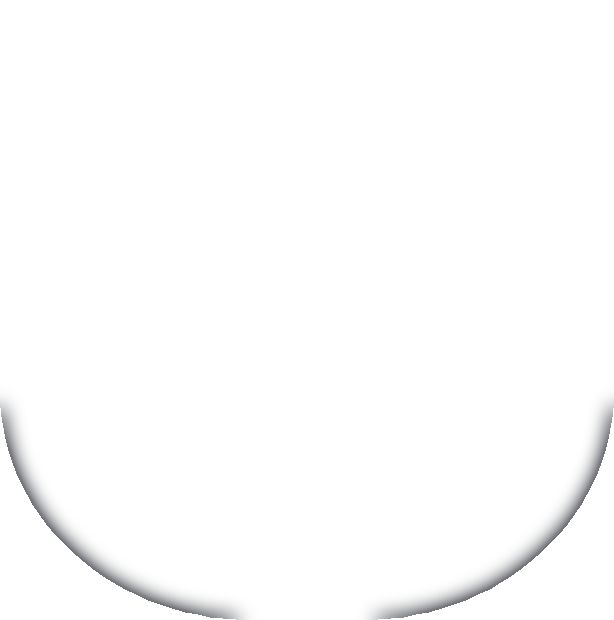
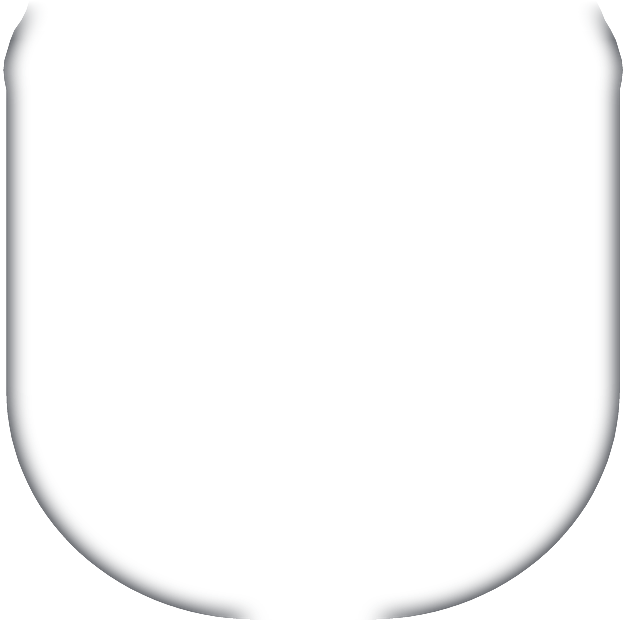
Trim the shade's top corners to follow the curved frame
Claude-Session: https://claude.ai/code/session_01CthgBTvFk91m7x8aUzyipC

diff --git a/index.html b/index.html
@@ -78,7 +78,7 @@ a{color:inherit}
 .window img{width:100%;height:100%;object-fit:contain;filter:drop-shadow(0 40px 70px rgba(0,0,0,.55))}
 .window canvas{position:absolute;inset:0;width:100%;height:100%;pointer-events:none}
 /* pull-down window shade, built from the shade in the photo and cut to the window recess (image box is 1024 units) */
-.shade-clip{position:absolute;left:20.02%;top:26.37%;width:59.96%;height:60.55%;overflow:hidden;pointer-events:none;
+.shade-clip{position:absolute;left:19.434%;top:26.37%;width:61.133%;height:60.55%;overflow:hidden;pointer-events:none;
   -webkit-mask:url(assets/shade-mask.png) 0 0/100% 100% no-repeat;mask:url(assets/shade-mask.png) 0 0/100% 100% no-repeat}
 .shade-panel{position:absolute;inset:0;background:url(assets/shade-panel.webp) 0 0/100% 100% no-repeat;will-change:transform}
 .shade-edge{position:absolute;inset:0;background:url(assets/shade-edge.png) 0 0/100% 100% no-repeat}
